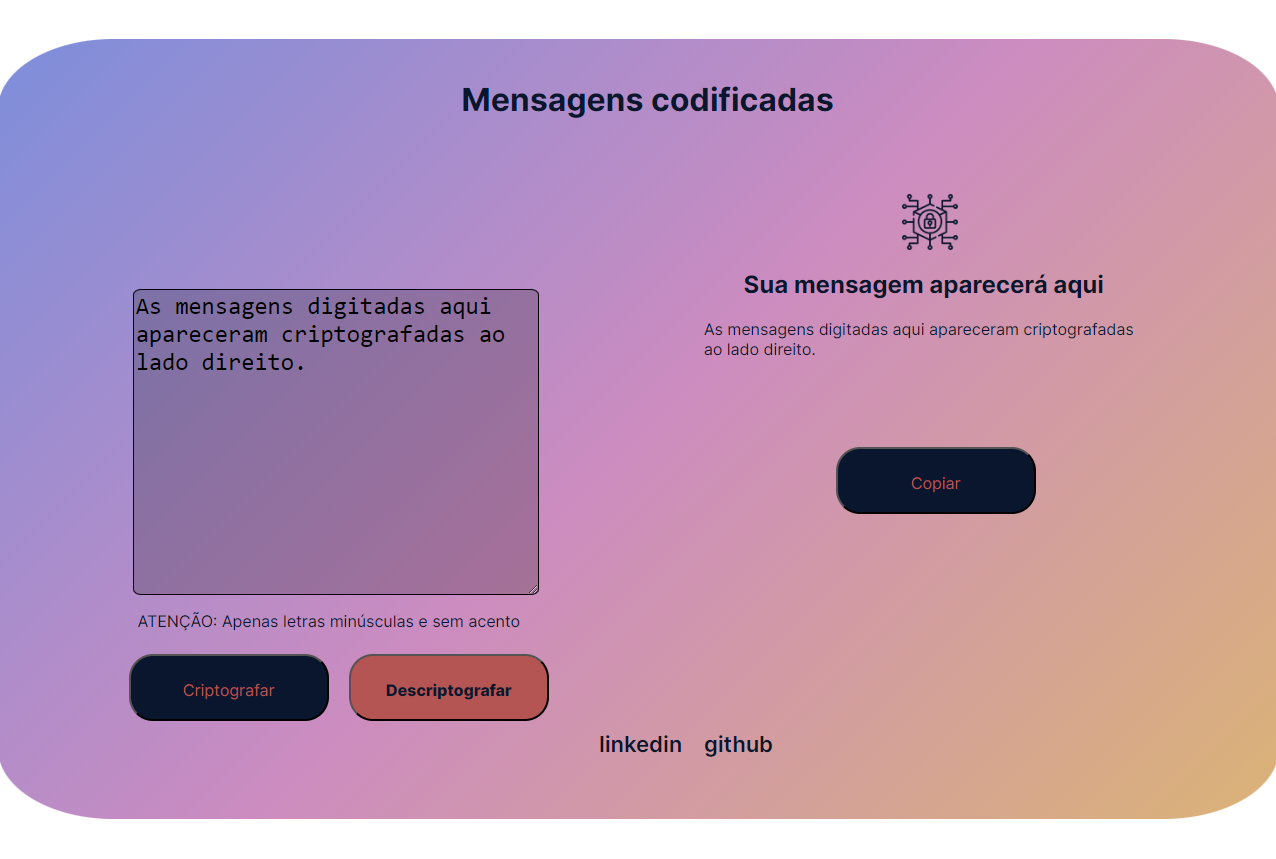
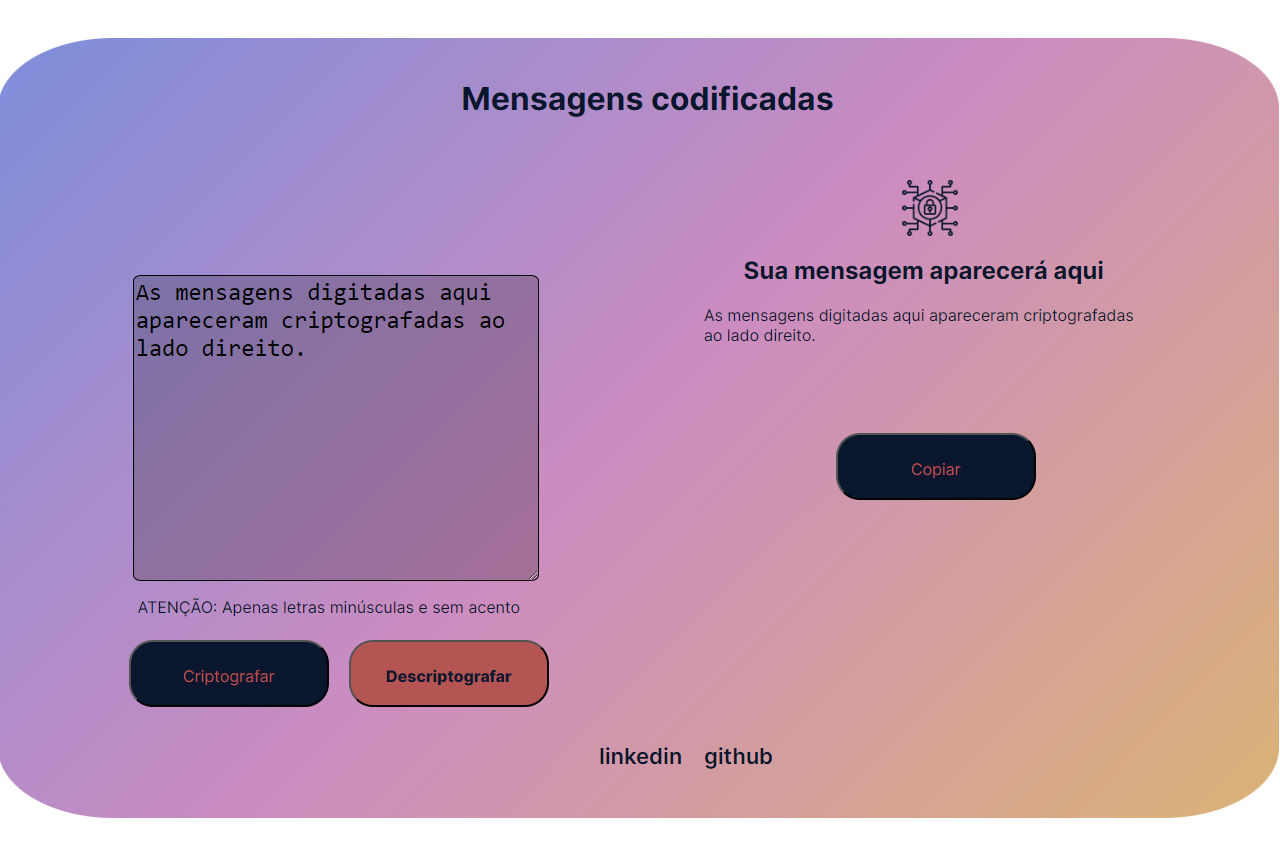
Mudança na margin do header. Imagens alteradas.

diff --git a/styless/styless.css b/styless/styless.css
@@ -121,11 +121,11 @@ body{
 
 
 .rodape{
-    width: 1140px;;
+    width: 1140px;
     height: 50px;
     display: flex;
     justify-content: center;
-    margin: 20px 0px 20px 90px;
+    margin: 60px 0px 20px 90px;
 }
 .rodape__icons{
     display: flex;
